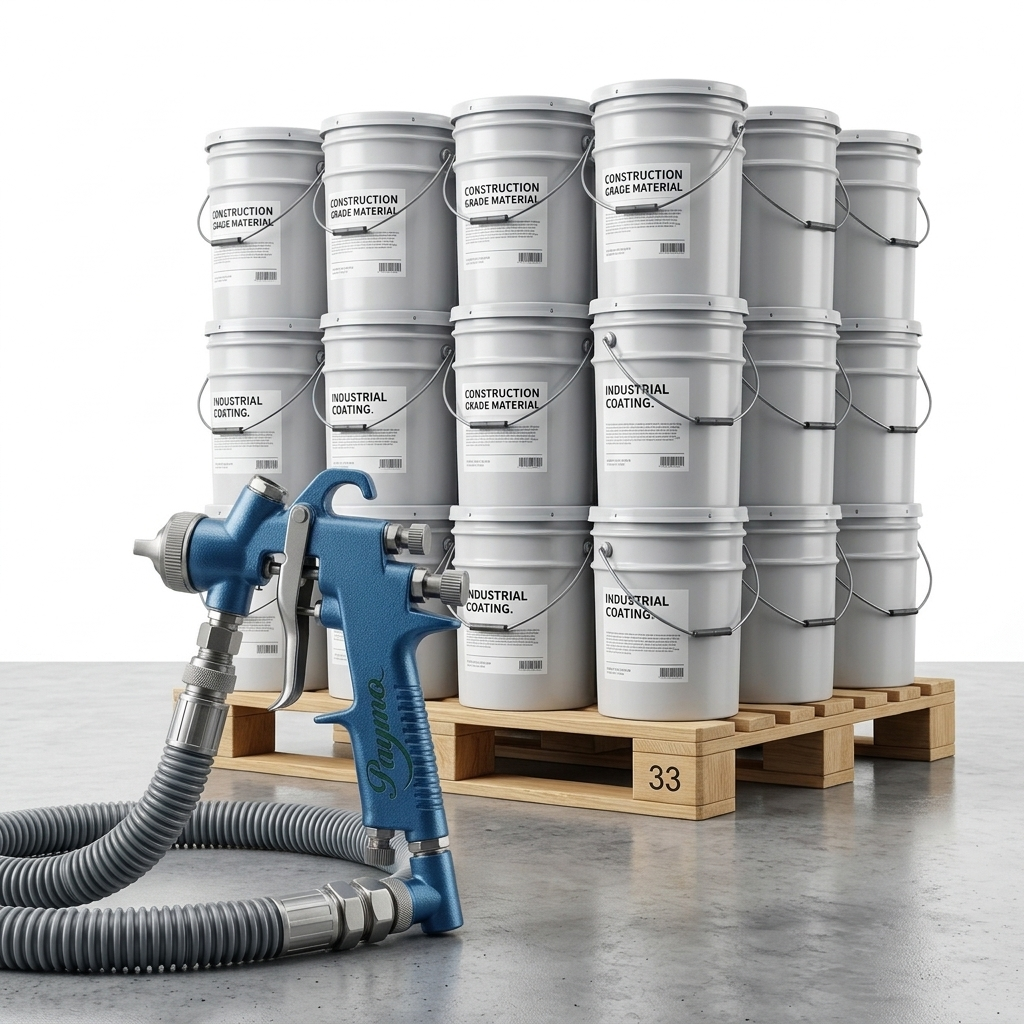
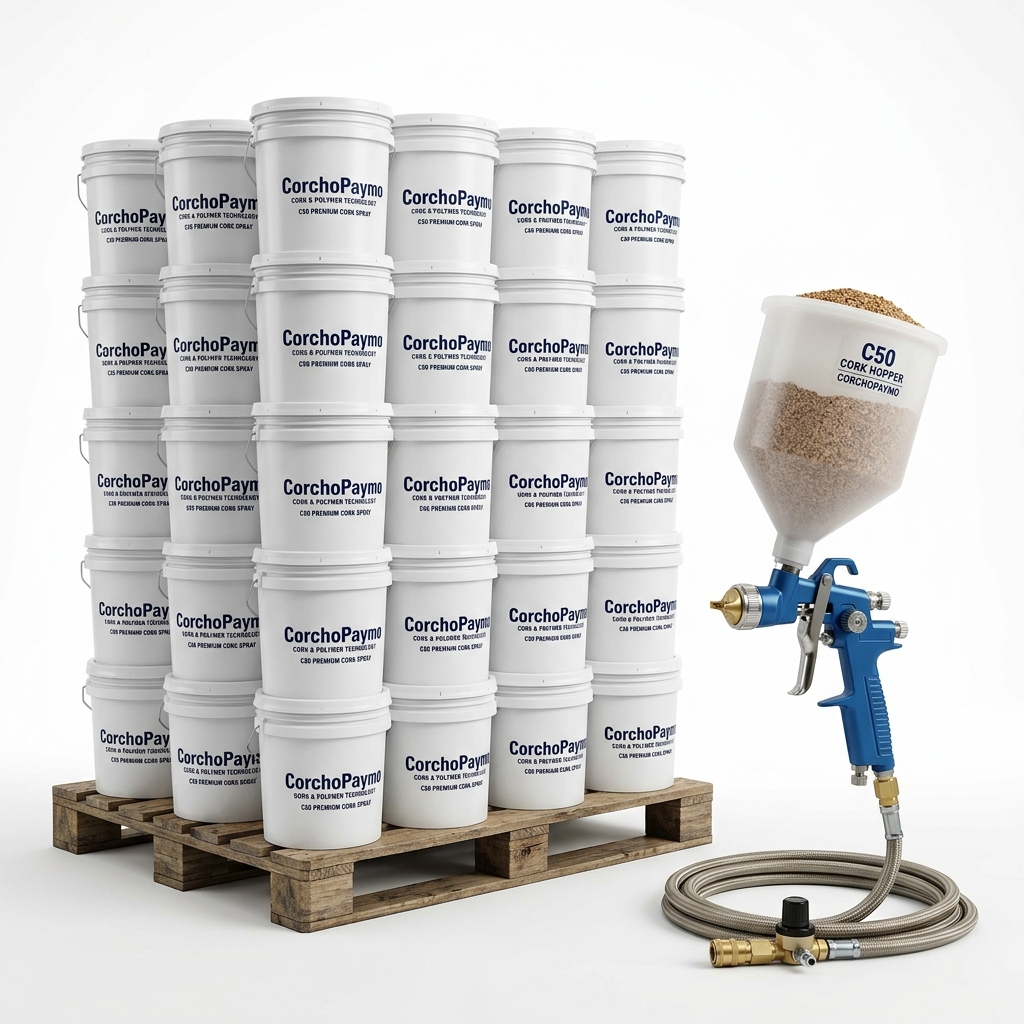
Actualizar imagen de pistola con embudo C50 y destacar texto de la oferta

diff --git a/productos.html b/productos.html
@@ -106,7 +106,8 @@
       <div style="flex: 1; min-width: 220px;">
         <span class="product-card__badge" style="position: static; display: inline-block; margin-bottom: 8px; font-size: 0.8rem; padding: 5px 14px;">⭐ OFERTA ESTRELLA</span>
         <h3 style="font-size: 1.3rem; color: var(--color-text-primary); margin-bottom: 6px;">Palé 33 cubos (cualquier color) por <span class="gradient-text">2145€</span></h3>
-        <p style="color: var(--color-text-secondary); font-size: 0.9rem; margin-bottom: 14px; line-height: 1.5;">¡Oferta estrella! Palé de 33 cubos de cualquier color por 2145€. Además, llévate de regalo la pistola y manguera de aire con enganches rápidos incluidos.</p>
+        <p style="color: var(--color-text-secondary); font-size: 0.9rem; margin-bottom: 14px; line-height: 1.5;">¡Oferta estrella! Palé de 33 cubos de cualquier color por 2145€. Además, llévate el siguiente regalo:</p>
+        <p class="special-offer__bonus" style="font-size: 1.05rem; font-weight: bold; background: rgba(255, 215, 0, 0.1); padding: 12px; border-radius: 8px; border: 1px solid rgba(255, 215, 0, 0.3); color: var(--color-text-primary); margin-bottom: 14px; line-height: 1.4;">🎁 ¡Y DE REGALO: Pistola con embudo para proyectar C50 y manguera de aire con enganches rápidos incluidos!</p>
         <div style="display: flex; gap: 8px; flex-wrap: wrap; margin-bottom: 14px;">
           <span class="product-tag">Pistola incluida</span>
           <span class="product-tag">Manguera de aire</span>
